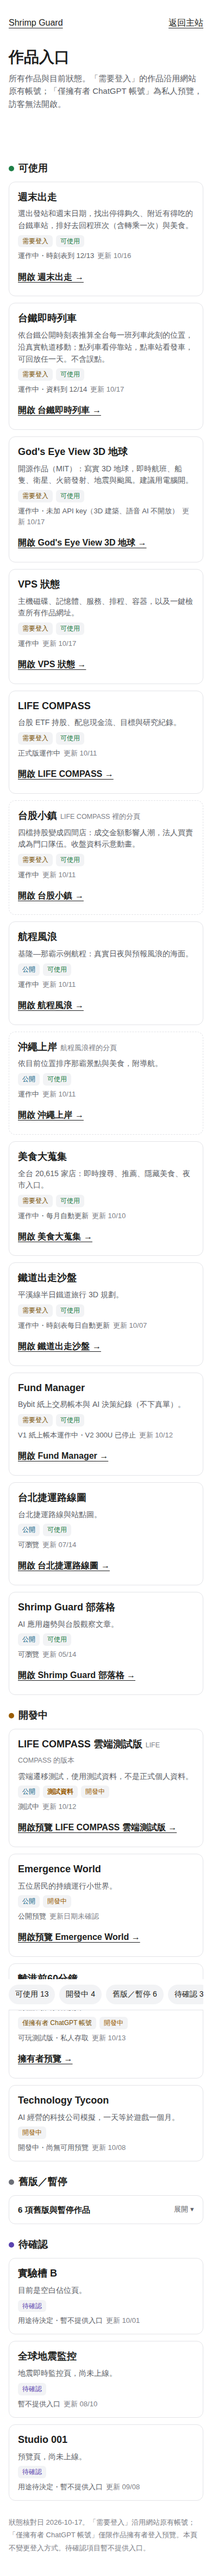
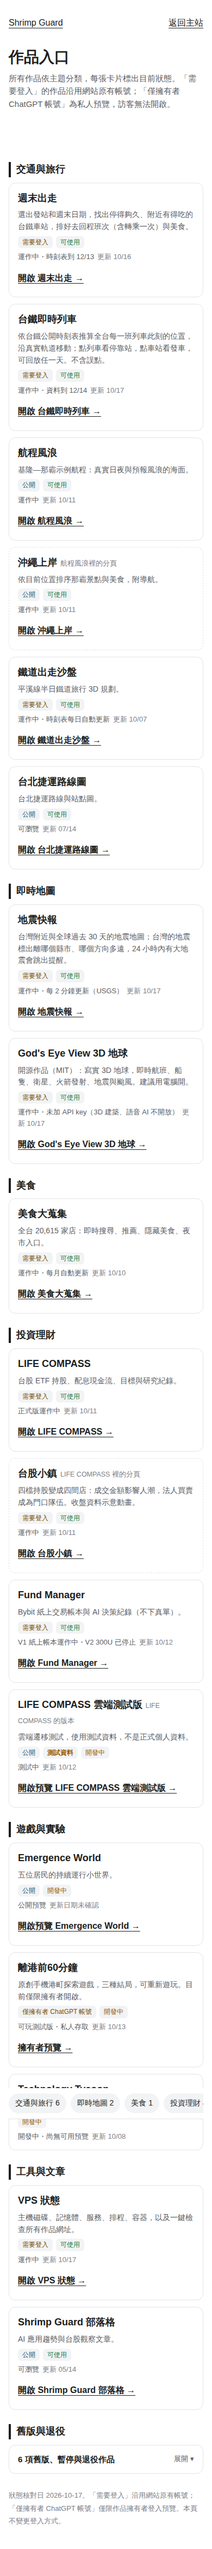
projects: group works by theme (交通與旅行/即時地圖/美食/投資理財/遊戲與實驗/工具與文章/舊版), status as a tag; add 地震快報; drop empty placeholders 實驗槽 B and Studio 001 (24 works)
Claude-Session: https://claude.ai/code/session_01GVcRfQhdVaSGc69DiKrmzk

diff --git a/overlays/projects/index.html b/overlays/projects/index.html
@@ -1,0 +1,28 @@
+<!doctype html><html lang="zh-Hant"><head><meta charset="utf-8"><meta name="viewport" content="width=device-width,initial-scale=1"><title>作品入口 · Shrimp Guard</title><meta name="description" content="Shrimp Guard 所有作品與目前狀態。"><style>
+:root{color-scheme:light dark;--bg:#fff;--card:#fff;--ink:#1d1e20;--ink2:#5b5e66;--ink3:#7d8087;--line:#e3e4e8;--chip:#f2f3f5;--ok:#1d7f46;--dev:#9a5c00;--old:#6c6f77;--ask:#5b43b0;--lock:#7a5000;--pub:#0a5f85}
+@media (prefers-color-scheme:dark){:root{--bg:#1d1e20;--card:#26272b;--ink:#dadadb;--ink2:#b0b2b7;--ink3:#8c8f96;--line:#38393e;--chip:#313237;--ok:#57c785;--dev:#e3a23a;--old:#a3a6ad;--ask:#ad98f2;--lock:#e5b864;--pub:#64bde4}}
+*{box-sizing:border-box}body{margin:0;background:var(--bg);color:var(--ink);font-family:-apple-system,BlinkMacSystemFont,"Segoe UI","PingFang TC","Noto Sans TC",sans-serif;line-height:1.55}
+.shell{max-width:1000px;margin:auto;padding:20px 16px 40px}
+nav.top{display:flex;justify-content:space-between;align-items:center}nav.top a{color:var(--ink);padding:10px 0;text-decoration:underline;text-underline-offset:4px}
+h1{font-size:clamp(28px,5vw,40px);margin:18px 0 6px}.intro{color:var(--ink2);margin:0;font-size:15px}
+.jump{position:sticky;top:0;z-index:2;background:var(--bg);display:flex;gap:8px;overflow-x:auto;padding:10px 0;margin-top:12px;border-bottom:1px solid var(--line)}
+.jump a{flex:none;font-size:14px;padding:7px 12px;border-radius:999px;background:var(--chip);color:var(--ink);text-decoration:none;white-space:nowrap}
+section{scroll-margin-top:60px}h2{font-size:18px;margin:26px 0 10px;padding-left:10px;border-left:4px solid var(--ink)}
+.grid{display:grid;grid-template-columns:repeat(2,minmax(0,1fr));gap:12px}
+.card{background:var(--card);border:1px solid var(--line);border-radius:12px;padding:14px 16px;display:flex;flex-direction:column;gap:6px;min-width:0}
+.card.sub{border-style:dashed}
+.name{font-size:18px;font-weight:700;margin:0}.of{font-size:12.5px;color:var(--ink3);font-weight:400;margin-left:6px}
+.desc{font-size:14px;color:var(--ink2);margin:0}
+.tags{display:flex;gap:6px;flex-wrap:wrap;margin:0;padding:0;list-style:none}
+.tags li{font-size:12px;padding:2px 8px;border-radius:6px;background:var(--chip);color:var(--ink2)}
+.tags .pub{color:var(--pub)}.tags .lock{color:var(--lock)}.tags .ok{color:var(--ok)}.tags .dev{color:var(--dev)}.tags .old{color:var(--old)}.tags .ask{color:var(--ask)}.tags .test{color:var(--dev);font-weight:700}
+.st{font-size:13px;color:var(--ink2);margin:0}.st time{color:var(--ink3);margin-left:6px}
+.open{margin:2px 0 0}.open a{display:inline-block;padding:8px 0;color:var(--ink);font-weight:700;text-decoration:underline;text-underline-offset:4px}
+details{border:1px solid var(--line);border-radius:12px;background:var(--card)}
+summary{cursor:pointer;padding:14px 16px;font-size:15px;font-weight:700;display:flex;justify-content:space-between;align-items:center}
+summary::-webkit-details-marker{display:none}summary::after{content:"展開 ▾";font-size:13px;font-weight:500;color:var(--ink2)}details[open] summary::after{content:"收合 ▴"}
+details .grid{padding:0 12px 12px}
+footer{margin-top:28px;font-size:13px;color:var(--ink3);line-height:1.8}
+a:focus-visible,summary:focus-visible{outline:3px solid #6797c0;outline-offset:4px}
+@media(max-width:600px){.grid{grid-template-columns:1fr}}
+</style></head><body><div class="shell"><nav class="top" aria-label="網站導覽"><a href="/">Shrimp Guard</a><a href="/">返回主站</a></nav><main><h1>作品入口</h1><p class="intro">所有作品依主題分類，每張卡片標出目前狀態。「需要登入」的作品沿用網站原有帳號；「僅擁有者 ChatGPT 帳號」為私人預覽，訪客無法開啟。</p><nav class="jump" aria-label="分類"><a href="#travel">交通與旅行 6</a><a href="#live">即時地圖 2</a><a href="#food">美食 1</a><a href="#money">投資理財 4</a><a href="#lab">遊戲與實驗 3</a><a href="#tools">工具與文章 2</a><a href="#old">舊版與退役 6</a></nav><section id="travel" aria-label="交通與旅行"><h2>交通與旅行</h2><div class="grid"><article class="card"><h3 class="name">週末出走</h3><p class="desc">選出發站和週末日期，找出停得夠久、附近有得吃的台鐵車站，排好去回程班次（含轉乘一次）與美食。</p><ul class="tags"><li class="lock">需要登入</li><li class="ok">可使用</li></ul><p class="st">運作中・時刻表到 12/13<time>更新 10/16</time></p><p class="open"><a href="https://dashboard.shrimp-guard.us.ci/weekend/">開啟 週末出走 →</a></p></article><article class="card"><h3 class="name">台鐵即時列車</h3><p class="desc">依台鐵公開時刻表推算全台每一班列車此刻的位置，沿真實軌道移動；點列車看停靠站，點車站看發車，可回放任一天。不含誤點。</p><ul class="tags"><li class="lock">需要登入</li><li class="ok">可使用</li></ul><p class="st">運作中・資料到 12/14<time>更新 10/17</time></p><p class="open"><a href="https://dashboard.shrimp-guard.us.ci/apps/rail-live/">開啟 台鐵即時列車 →</a></p></article><article class="card"><h3 class="name">航程風浪</h3><p class="desc">基隆—那霸示例航程：真實日夜與預報風浪的海面。</p><ul class="tags"><li class="pub">公開</li><li class="ok">可使用</li></ul><p class="st">運作中<time>更新 10/11</time></p><p class="open"><a href="/room/">開啟 航程風浪 →</a></p></article><article class="card sub"><h3 class="name">沖繩上岸<span class="of">航程風浪裡的分頁</span></h3><p class="desc">依目前位置排序那霸景點與美食，附導航。</p><ul class="tags"><li class="pub">公開</li><li class="ok">可使用</li></ul><p class="st">運作中<time>更新 10/11</time></p><p class="open"><a href="/room/#landing">開啟 沖繩上岸 →</a></p></article><article class="card"><h3 class="name">鐵道出走沙盤</h3><p class="desc">平溪線半日鐵道旅行 3D 規劃。</p><ul class="tags"><li class="lock">需要登入</li><li class="ok">可使用</li></ul><p class="st">運作中・時刻表每日自動更新<time>更新 10/07</time></p><p class="open"><a href="https://dashboard.shrimp-guard.us.ci/rail-trip/">開啟 鐵道出走沙盤 →</a></p></article><article class="card"><h3 class="name">台北捷運路線圖</h3><p class="desc">台北捷運路線與站點圖。</p><ul class="tags"><li class="pub">公開</li><li class="ok">可使用</li></ul><p class="st">可瀏覽<time>更新 07/14</time></p><p class="open"><a href="/taipei-mrt/">開啟 台北捷運路線圖 →</a></p></article></div></section><section id="live" aria-label="即時地圖"><h2>即時地圖</h2><div class="grid"><article class="card"><h3 class="name">地震快報</h3><p class="desc">台灣附近與全球過去 30 天的地震地圖；台灣的地震標出離哪個縣市、哪個方向多遠，24 小時內有大地震會跳出提醒。</p><ul class="tags"><li class="lock">需要登入</li><li class="ok">可使用</li></ul><p class="st">運作中・每 2 分鐘更新（USGS）<time>更新 10/17</time></p><p class="open"><a href="https://dashboard.shrimp-guard.us.ci/apps/quake/">開啟 地震快報 →</a></p></article><article class="card"><h3 class="name">God&#x27;s Eye View 3D 地球</h3><p class="desc">開源作品（MIT）：寫實 3D 地球，即時航班、船隻、衛星、火箭發射、地震與颱風。建議用電腦開。</p><ul class="tags"><li class="lock">需要登入</li><li class="ok">可使用</li></ul><p class="st">運作中・未加 API key（3D 建築、語音 AI 不開放）<time>更新 10/17</time></p><p class="open"><a href="https://dashboard.shrimp-guard.us.ci/globe/">開啟 God&#x27;s Eye View 3D 地球 →</a></p></article></div></section><section id="food" aria-label="美食"><h2>美食</h2><div class="grid"><article class="card"><h3 class="name">美食大蒐集</h3><p class="desc">全台 20,615 家店：即時搜尋、推薦、隱藏美食、夜市入口。</p><ul class="tags"><li class="lock">需要登入</li><li class="ok">可使用</li></ul><p class="st">運作中・每月自動更新<time>更新 10/10</time></p><p class="open"><a href="https://dashboard.shrimp-guard.us.ci/food-map/">開啟 美食大蒐集 →</a></p></article></div></section><section id="money" aria-label="投資理財"><h2>投資理財</h2><div class="grid"><article class="card"><h3 class="name">LIFE COMPASS</h3><p class="desc">台股 ETF 持股、配息現金流、目標與研究紀錄。</p><ul class="tags"><li class="lock">需要登入</li><li class="ok">可使用</li></ul><p class="st">正式版運作中<time>更新 10/11</time></p><p class="open"><a href="https://dashboard.shrimp-guard.us.ci/one-life/">開啟 LIFE COMPASS →</a></p></article><article class="card sub"><h3 class="name">台股小鎮<span class="of">LIFE COMPASS 裡的分頁</span></h3><p class="desc">四檔持股變成四間店：成交金額影響人潮，法人買賣成為門口隊伍。收盤資料示意動畫。</p><ul class="tags"><li class="lock">需要登入</li><li class="ok">可使用</li></ul><p class="st">運作中<time>更新 10/11</time></p><p class="open"><a href="https://dashboard.shrimp-guard.us.ci/one-life/#town">開啟 台股小鎮 →</a></p></article><article class="card"><h3 class="name">Fund Manager</h3><p class="desc">Bybit 紙上交易帳本與 AI 決策紀錄（不下真單）。</p><ul class="tags"><li class="lock">需要登入</li><li class="ok">可使用</li></ul><p class="st">V1 紙上帳本運作中・V2 300U 已停止<time>更新 10/12</time></p><p class="open"><a href="https://dashboard.shrimp-guard.us.ci/fund-manager/">開啟 Fund Manager →</a></p></article><article class="card"><h3 class="name">LIFE COMPASS 雲端測試版<span class="of">LIFE COMPASS 的版本</span></h3><p class="desc">雲端遷移測試，使用測試資料，不是正式個人資料。</p><ul class="tags"><li class="pub">公開</li><li class="test">測試資料</li><li class="dev">開發中</li></ul><p class="st">測試中<time>更新 10/12</time></p><p class="open"><a href="https://life-compass.httpsmulticlawmoltidworkersdevcmolt32c002a10b29b0e3ad3.workers.dev/">開啟預覽 LIFE COMPASS 雲端測試版 →</a></p></article></div></section><section id="lab" aria-label="遊戲與實驗"><h2>遊戲與實驗</h2><div class="grid"><article class="card"><h3 class="name">Emergence World</h3><p class="desc">五位居民的持續運行小世界。</p><ul class="tags"><li class="pub">公開</li><li class="dev">開發中</li></ul><p class="st">公開預覽<time>更新日期未確認</time></p><p class="open"><a href="https://emergence-world-preview.httpsmulticlawmoltidworkersdevcmolt32c002a10b29b0e3ad3.workers.dev/">開啟預覽 Emergence World →</a></p></article><article class="card"><h3 class="name">離港前60分鐘</h3><p class="desc">原創手機港町探索遊戲，三種結局，可重新遊玩。目前僅限擁有者開啟。</p><ul class="tags"><li class="lock">僅擁有者 ChatGPT 帳號</li><li class="dev">開發中</li></ul><p class="st">可玩測試版・私人存取<time>更新 10/13</time></p><p class="open"><a href="https://harbor-sixty-minute-game.windy-maple-0615.chatgpt.site">擁有者預覽 →</a></p></article><article class="card"><h3 class="name">Technology Tycoon</h3><p class="desc">AI 經營的科技公司模擬，一天等於遊戲一個月。</p><ul class="tags"><li class="dev">開發中</li></ul><p class="st">開發中・尚無可用預覽<time>更新 10/08</time></p></article></div></section><section id="tools" aria-label="工具與文章"><h2>工具與文章</h2><div class="grid"><article class="card"><h3 class="name">VPS 狀態</h3><p class="desc">主機磁碟、記憶體、服務、排程、容器，以及一鍵檢查所有作品網址。</p><ul class="tags"><li class="lock">需要登入</li><li class="ok">可使用</li></ul><p class="st">運作中<time>更新 10/17</time></p><p class="open"><a href="https://dashboard.shrimp-guard.us.ci/apps/vps/">開啟 VPS 狀態 →</a></p></article><article class="card"><h3 class="name">Shrimp Guard 部落格</h3><p class="desc">AI 應用趨勢與台股觀察文章。</p><ul class="tags"><li class="pub">公開</li><li class="ok">可使用</li></ul><p class="st">可瀏覽<time>更新 05/14</time></p><p class="open"><a href="/">開啟 Shrimp Guard 部落格 →</a></p></article></div></section><section id="old" aria-label="舊版與退役"><h2>舊版與退役</h2><details><summary>6 項舊版、暫停與退役作品</summary><div class="grid"><article class="card"><h3 class="name">小王國</h3><p class="desc">手機王國遊戲（建設村莊、發布懸賞、英雄自行出任務）。</p><ul class="tags"><li class="old">舊版／暫停</li></ul><p class="st">暫停・素材成果保留<time>更新 10/12</time></p></article><article class="card"><h3 class="name">世界與我</h3><p class="desc">原入口保留中。</p><ul class="tags"><li class="pub">公開</li><li class="old">舊版／暫停</li></ul><p class="st">保留中<time>更新 10/08</time></p><p class="open"><a href="/world-impact/">開啟 世界與我 →</a></p></article><article class="card"><h3 class="name">美食大蒐集（公開版）<span class="of">美食大蒐集的版本</span></h3><p class="desc">曾規劃的 GitHub Pages 公開版本。</p><ul class="tags"><li class="old">舊版／暫停</li></ul><p class="st">暫停・正式版在美食大蒐集<time>更新 10/10</time></p></article><article class="card"><h3 class="name">ONE LIFE ／ AI Resident</h3><p class="desc">生活角色實驗，網址已由 LIFE COMPASS 接手。</p><ul class="tags"><li class="old">舊版／暫停</li></ul><p class="st">已退役<time>更新 10/01</time></p></article><article class="card"><h3 class="name">AI COMMONS ／ Latticefolk</h3><p class="desc">多模型社群與 AI 生活世界實驗。</p><ul class="tags"><li class="old">舊版／暫停</li></ul><p class="st">已退役<time>更新 09/30</time></p></article><article class="card"><h3 class="name">Fund Manager V2 300U<span class="of">Fund Manager 的版本</span></h3><p class="desc">300 USDT 雙向持倉紙上帳本。</p><ul class="tags"><li class="old">舊版／暫停</li></ul><p class="st">已停止・紀錄可在 Fund Manager 查看<time>更新 10/12</time></p></article></div></details></section></main><footer>狀態核對日 2026-10-17。「需要登入」沿用網站原有帳號；「僅擁有者 ChatGPT 帳號」僅限作品擁有者登入預覽。本頁不變更登入方式。</footer></div></body></html>

diff --git a/scripts/build_projects_entry.py b/scripts/build_projects_entry.py
@@ -8,35 +8,34 @@ D = 'https://dashboard.shrimp-guard.us.ci'
 CHECKED = '2026-10-17'
 # group: ok 可使用 / dev 開發中 / old 舊版／暫停 (collapsed) / ask 待確認 (no open button)
 WORKS = [
-    dict(g='ok', name='週末出走', desc='選出發站和週末日期，找出停得夠久、附近有得吃的台鐵車站，排好去回程班次（含轉乘一次）與美食。', url=D + '/weekend/', login=True, st='運作中・時刻表到 12/13', date='10/16'),
-    dict(g='ok', name='台鐵即時列車', desc='依台鐵公開時刻表推算全台每一班列車此刻的位置，沿真實軌道移動；點列車看停靠站，點車站看發車，可回放任一天。不含誤點。', url=D + '/apps/rail-live/', login=True, st='運作中・資料到 12/14', date='10/17'),
-    dict(g='ok', name="God's Eye View 3D 地球", desc='開源作品（MIT）：寫實 3D 地球，即時航班、船隻、衛星、火箭發射、地震與颱風。建議用電腦開。', url=D + '/globe/', login=True, st='運作中・未加 API key（3D 建築、語音 AI 不開放）', date='10/17'),
-    dict(g='ok', name='VPS 狀態', desc='主機磁碟、記憶體、服務、排程、容器，以及一鍵檢查所有作品網址。', url=D + '/apps/vps/', login=True, st='運作中', date='10/17'),
-    dict(g='ok', name='LIFE COMPASS', desc='台股 ETF 持股、配息現金流、目標與研究紀錄。', url=D + '/one-life/', login=True, st='正式版運作中', date='10/11'),
-    dict(g='ok', name='台股小鎮', of='LIFE COMPASS 裡的分頁', desc='四檔持股變成四間店：成交金額影響人潮，法人買賣成為門口隊伍。收盤資料示意動畫。', url=D + '/one-life/#town', login=True, sub=True, st='運作中', date='10/11'),
-    dict(g='ok', name='航程風浪', desc='基隆—那霸示例航程：真實日夜與預報風浪的海面。', url='/room/', login=False, st='運作中', date='10/11'),
-    dict(g='ok', name='沖繩上岸', of='航程風浪裡的分頁', desc='依目前位置排序那霸景點與美食，附導航。', url='/room/#landing', login=False, sub=True, st='運作中', date='10/11'),
-    dict(g='ok', name='美食大蒐集', desc='全台 20,615 家店：即時搜尋、推薦、隱藏美食、夜市入口。', url=D + '/food-map/', login=True, st='運作中・每月自動更新', date='10/10'),
-    dict(g='ok', name='鐵道出走沙盤', desc='平溪線半日鐵道旅行 3D 規劃。', url=D + '/rail-trip/', login=True, st='運作中・時刻表每日自動更新', date='10/07'),
-    dict(g='ok', name='Fund Manager', desc='Bybit 紙上交易帳本與 AI 決策紀錄（不下真單）。', url=D + '/fund-manager/', login=True, st='V1 紙上帳本運作中・V2 300U 已停止', date='10/12'),
-    dict(g='ok', name='台北捷運路線圖', desc='台北捷運路線與站點圖。', url='/taipei-mrt/', login=False, st='可瀏覽', date='07/14'),
-    dict(g='ok', name='Shrimp Guard 部落格', desc='AI 應用趨勢與台股觀察文章。', url='/', login=False, st='可瀏覽', date='05/14'),
-    dict(g='dev', name='LIFE COMPASS 雲端測試版', of='LIFE COMPASS 的版本', desc='雲端遷移測試，使用測試資料，不是正式個人資料。', url='https://life-compass.httpsmulticlawmoltidworkersdevcmolt32c002a10b29b0e3ad3.workers.dev/', login=False, test=True, st='測試中', date='10/12'),
-    dict(g='dev', name='Emergence World', desc='五位居民的持續運行小世界。', url='https://emergence-world-preview.httpsmulticlawmoltidworkersdevcmolt32c002a10b29b0e3ad3.workers.dev/', login=False, st='公開預覽', date=None),
-    dict(g='dev', name='離港前60分鐘', desc='原創手機港町探索遊戲，三種結局，可重新遊玩。目前僅限擁有者開啟。', url='https://harbor-sixty-minute-game.windy-maple-0615.chatgpt.site', login=True, access='僅擁有者 ChatGPT 帳號', btn='擁有者預覽', st='可玩測試版・私人存取', date='10/13'),
-    dict(g='dev', name='Technology Tycoon', desc='AI 經營的科技公司模擬，一天等於遊戲一個月。', url=None, st='開發中・尚無可用預覽', date='10/08'),
-    dict(g='old', name='小王國', desc='手機王國遊戲（建設村莊、發布懸賞、英雄自行出任務）。', url=None, st='暫停・素材成果保留', date='10/12'),
-    dict(g='old', name='世界與我', desc='原入口保留中。', url='/world-impact/', login=False, st='保留中', date='10/08'),
-    dict(g='old', name='美食大蒐集（公開版）', of='美食大蒐集的版本', desc='曾規劃的 GitHub Pages 公開版本。', url=None, st='暫停・正式版在美食大蒐集', date='10/10'),
-    dict(g='old', name='ONE LIFE ／ AI Resident', desc='生活角色實驗，網址已由 LIFE COMPASS 接手。', url=None, st='已退役', date='10/01'),
-    dict(g='old', name='AI COMMONS ／ Latticefolk', desc='多模型社群與 AI 生活世界實驗。', url=None, st='已退役', date='09/30'),
-    dict(g='old', name='Fund Manager V2 300U', of='Fund Manager 的版本', desc='300 USDT 雙向持倉紙上帳本。', url=None, st='已停止・紀錄可在 Fund Manager 查看', date='10/12'),
-    dict(g='ask', name='實驗槽 B', desc='目前是空白佔位頁。', url=None, st='用途待決定・暫不提供入口', date='10/01'),
-    dict(g='ask', name='全球地震監控', desc='地震即時監控頁，尚未上線。', url=None, st='暫不提供入口', date='08/10'),
-    dict(g='ask', name='Studio 001', desc='預覽頁，尚未上線。', url=None, st='用途待決定・暫不提供入口', date='09/08'),
+    dict(c='live', g='ok', name='地震快報', desc='台灣附近與全球過去 30 天的地震地圖；台灣的地震標出離哪個縣市、哪個方向多遠，24 小時內有大地震會跳出提醒。', url=D + '/apps/quake/', login=True, st='運作中・每 2 分鐘更新（USGS）', date='10/17'),
+    dict(c='travel', g='ok', name='週末出走', desc='選出發站和週末日期，找出停得夠久、附近有得吃的台鐵車站，排好去回程班次（含轉乘一次）與美食。', url=D + '/weekend/', login=True, st='運作中・時刻表到 12/13', date='10/16'),
+    dict(c='travel', g='ok', name='台鐵即時列車', desc='依台鐵公開時刻表推算全台每一班列車此刻的位置，沿真實軌道移動；點列車看停靠站，點車站看發車，可回放任一天。不含誤點。', url=D + '/apps/rail-live/', login=True, st='運作中・資料到 12/14', date='10/17'),
+    dict(c='live', g='ok', name="God's Eye View 3D 地球", desc='開源作品（MIT）：寫實 3D 地球，即時航班、船隻、衛星、火箭發射、地震與颱風。建議用電腦開。', url=D + '/globe/', login=True, st='運作中・未加 API key（3D 建築、語音 AI 不開放）', date='10/17'),
+    dict(c='tools', g='ok', name='VPS 狀態', desc='主機磁碟、記憶體、服務、排程、容器，以及一鍵檢查所有作品網址。', url=D + '/apps/vps/', login=True, st='運作中', date='10/17'),
+    dict(c='money', g='ok', name='LIFE COMPASS', desc='台股 ETF 持股、配息現金流、目標與研究紀錄。', url=D + '/one-life/', login=True, st='正式版運作中', date='10/11'),
+    dict(c='money', g='ok', name='台股小鎮', of='LIFE COMPASS 裡的分頁', desc='四檔持股變成四間店：成交金額影響人潮，法人買賣成為門口隊伍。收盤資料示意動畫。', url=D + '/one-life/#town', login=True, sub=True, st='運作中', date='10/11'),
+    dict(c='travel', g='ok', name='航程風浪', desc='基隆—那霸示例航程：真實日夜與預報風浪的海面。', url='/room/', login=False, st='運作中', date='10/11'),
+    dict(c='travel', g='ok', name='沖繩上岸', of='航程風浪裡的分頁', desc='依目前位置排序那霸景點與美食，附導航。', url='/room/#landing', login=False, sub=True, st='運作中', date='10/11'),
+    dict(c='food', g='ok', name='美食大蒐集', desc='全台 20,615 家店：即時搜尋、推薦、隱藏美食、夜市入口。', url=D + '/food-map/', login=True, st='運作中・每月自動更新', date='10/10'),
+    dict(c='travel', g='ok', name='鐵道出走沙盤', desc='平溪線半日鐵道旅行 3D 規劃。', url=D + '/rail-trip/', login=True, st='運作中・時刻表每日自動更新', date='10/07'),
+    dict(c='money', g='ok', name='Fund Manager', desc='Bybit 紙上交易帳本與 AI 決策紀錄（不下真單）。', url=D + '/fund-manager/', login=True, st='V1 紙上帳本運作中・V2 300U 已停止', date='10/12'),
+    dict(c='travel', g='ok', name='台北捷運路線圖', desc='台北捷運路線與站點圖。', url='/taipei-mrt/', login=False, st='可瀏覽', date='07/14'),
+    dict(c='tools', g='ok', name='Shrimp Guard 部落格', desc='AI 應用趨勢與台股觀察文章。', url='/', login=False, st='可瀏覽', date='05/14'),
+    dict(c='money', g='dev', name='LIFE COMPASS 雲端測試版', of='LIFE COMPASS 的版本', desc='雲端遷移測試，使用測試資料，不是正式個人資料。', url='https://life-compass.httpsmulticlawmoltidworkersdevcmolt32c002a10b29b0e3ad3.workers.dev/', login=False, test=True, st='測試中', date='10/12'),
+    dict(c='lab', g='dev', name='Emergence World', desc='五位居民的持續運行小世界。', url='https://emergence-world-preview.httpsmulticlawmoltidworkersdevcmolt32c002a10b29b0e3ad3.workers.dev/', login=False, st='公開預覽', date=None),
+    dict(c='lab', g='dev', name='離港前60分鐘', desc='原創手機港町探索遊戲，三種結局，可重新遊玩。目前僅限擁有者開啟。', url='https://harbor-sixty-minute-game.windy-maple-0615.chatgpt.site', login=True, access='僅擁有者 ChatGPT 帳號', btn='擁有者預覽', st='可玩測試版・私人存取', date='10/13'),
+    dict(c='lab', g='dev', name='Technology Tycoon', desc='AI 經營的科技公司模擬，一天等於遊戲一個月。', url=None, st='開發中・尚無可用預覽', date='10/08'),
+    dict(c='old', g='old', name='小王國', desc='手機王國遊戲（建設村莊、發布懸賞、英雄自行出任務）。', url=None, st='暫停・素材成果保留', date='10/12'),
+    dict(c='old', g='old', name='世界與我', desc='原入口保留中。', url='/world-impact/', login=False, st='保留中', date='10/08'),
+    dict(c='old', g='old', name='美食大蒐集（公開版）', of='美食大蒐集的版本', desc='曾規劃的 GitHub Pages 公開版本。', url=None, st='暫停・正式版在美食大蒐集', date='10/10'),
+    dict(c='old', g='old', name='ONE LIFE ／ AI Resident', desc='生活角色實驗，網址已由 LIFE COMPASS 接手。', url=None, st='已退役', date='10/01'),
+    dict(c='old', g='old', name='AI COMMONS ／ Latticefolk', desc='多模型社群與 AI 生活世界實驗。', url=None, st='已退役', date='09/30'),
+    dict(c='old', g='old', name='Fund Manager V2 300U', of='Fund Manager 的版本', desc='300 USDT 雙向持倉紙上帳本。', url=None, st='已停止・紀錄可在 Fund Manager 查看', date='10/12'),
 ]
-GROUPS = [('ok', '可使用'), ('dev', '開發中'), ('old', '舊版／暫停'), ('ask', '待確認')]
-assert not [w for w in WORKS if w['g'] == 'ask' and w['url']], '待確認項不可有開啟按鈕'
+GROUPS = [('ok', '可使用'), ('dev', '開發中'), ('old', '舊版／暫停')]  # status, shown as a tag on each card
+CATS = [('travel', '交通與旅行'), ('live', '即時地圖'), ('food', '美食'), ('money', '投資理財'), ('lab', '遊戲與實驗'), ('tools', '工具與文章'), ('old', '舊版與退役')]
+assert all(w['c'] in dict(CATS) for w in WORKS) and all((w['c'] == 'old') == (w['g'] == 'old') for w in WORKS)
 
 CSS = """
 :root{color-scheme:light dark;--bg:#fff;--card:#fff;--ink:#1d1e20;--ink2:#5b5e66;--ink3:#7d8087;--line:#e3e4e8;--chip:#f2f3f5;--ok:#1d7f46;--dev:#9a5c00;--old:#6c6f77;--ask:#5b43b0;--lock:#7a5000;--pub:#0a5f85}
@@ -47,7 +46,7 @@ nav.top{display:flex;justify-content:space-between;align-items:center}nav.top a{
 h1{font-size:clamp(28px,5vw,40px);margin:18px 0 6px}.intro{color:var(--ink2);margin:0;font-size:15px}
 .jump{position:sticky;top:0;z-index:2;background:var(--bg);display:flex;gap:8px;overflow-x:auto;padding:10px 0;margin-top:12px;border-bottom:1px solid var(--line)}
 .jump a{flex:none;font-size:14px;padding:7px 12px;border-radius:999px;background:var(--chip);color:var(--ink);text-decoration:none;white-space:nowrap}
-section{scroll-margin-top:60px}h2{display:flex;align-items:center;gap:8px;font-size:18px;margin:24px 0 10px}h2 i{width:10px;height:10px;border-radius:50%;display:inline-block}
+section{scroll-margin-top:60px}h2{font-size:18px;margin:26px 0 10px;padding-left:10px;border-left:4px solid var(--ink)}
 .grid{display:grid;grid-template-columns:repeat(2,minmax(0,1fr));gap:12px}
 .card{background:var(--card);border:1px solid var(--line);border-radius:12px;padding:14px 16px;display:flex;flex-direction:column;gap:6px;min-width:0}
 .card.sub{border-style:dashed}
@@ -66,7 +65,6 @@ footer{margin-top:28px;font-size:13px;color:var(--ink3);line-height:1.8}
 a:focus-visible,summary:focus-visible{outline:3px solid #6797c0;outline-offset:4px}
 @media(max-width:600px){.grid{grid-template-columns:1fr}}
 """
-COLOR = dict(ok='var(--ok)', dev='var(--dev)', old='var(--old)', ask='var(--ask)')
 LABEL = dict(GROUPS)
 
 
@@ -89,24 +87,24 @@ def card(w):
 
 def build():
     jump, body = [], []
-    for g, label in GROUPS:
-        items = [w for w in WORKS if w['g'] == g]
-        jump.append(f'<a href="#{g}">{label} {len(items)}</a>')
+    for c, label in CATS:
+        items = sorted((w for w in WORKS if w['c'] == c), key=lambda w: w['g'] != 'ok')  # usable first, sub-pages stay after their parent
+        jump.append(f'<a href="#{c}">{label} {len(items)}</a>')
         grid = f'<div class="grid">{"".join(card(w) for w in items)}</div>'
-        head = f'<h2><i style="background:{COLOR[g]}"></i>{label}</h2>'
-        if g == 'old':
-            grid = f'<details><summary>{len(items)} 項舊版與暫停作品</summary>{grid}</details>'
-        body.append(f'<section id="{g}" aria-label="{label}">{head}{grid}</section>')
+        head = f'<h2>{label}</h2>'
+        if c == 'old':
+            grid = f'<details><summary>{len(items)} 項舊版、暫停與退役作品</summary>{grid}</details>'
+        body.append(f'<section id="{c}" aria-label="{label}">{head}{grid}</section>')
     return ('<!doctype html><html lang="zh-Hant"><head><meta charset="utf-8"><meta name="viewport" content="width=device-width,initial-scale=1">'
             '<title>作品入口 · Shrimp Guard</title><meta name="description" content="Shrimp Guard 所有作品與目前狀態。">'
             f'<style>{CSS}</style></head><body><div class="shell"><nav class="top" aria-label="網站導覽"><a href="/">Shrimp Guard</a><a href="/">返回主站</a></nav>'
-            '<main><h1>作品入口</h1><p class="intro">所有作品與目前狀態。「需要登入」的作品沿用網站原有帳號；「僅擁有者 ChatGPT 帳號」為私人預覽，訪客無法開啟。</p>'
+            '<main><h1>作品入口</h1><p class="intro">所有作品依主題分類，每張卡片標出目前狀態。「需要登入」的作品沿用網站原有帳號；「僅擁有者 ChatGPT 帳號」為私人預覽，訪客無法開啟。</p>'
             f'<nav class="jump" aria-label="分類">{"".join(jump)}</nav>{"".join(body)}</main>'
-            f'<footer>狀態核對日 {CHECKED}。「需要登入」沿用網站原有帳號；「僅擁有者 ChatGPT 帳號」僅限作品擁有者登入預覽。本頁不變更登入方式。待確認項目暫不提供入口。</footer></div></body></html>\n')
+            f'<footer>狀態核對日 {CHECKED}。「需要登入」沿用網站原有帳號；「僅擁有者 ChatGPT 帳號」僅限作品擁有者登入預覽。本頁不變更登入方式。</footer></div></body></html>\n')
 
 
 if __name__ == '__main__':
     out = Path(__file__).resolve().parents[1] / 'overlays' / 'projects' / 'index.html'
     out.parent.mkdir(parents=True, exist_ok=True)
     out.write_text(build(), encoding='utf-8')
-    print(out, sum(1 for w in WORKS if w.get('url')), 'links', {g: sum(1 for w in WORKS if w['g'] == g) for g, _ in GROUPS})
+    print(out, sum(1 for w in WORKS if w.get('url')), 'links', {c: sum(1 for w in WORKS if w['c'] == c) for c, _ in CATS})

diff --git a/scripts/test_publication.py b/scripts/test_publication.py
@@ -27,14 +27,15 @@ class EntryContent(unittest.TestCase):
   import importlib.util
   spec=importlib.util.spec_from_file_location('entry',root/'scripts/build_projects_entry.py'); entry_src=importlib.util.module_from_spec(spec); spec.loader.exec_module(entry_src)
   self.assertEqual(html,entry_src.build())   # overlay is exactly the generated page
-  expected=['/','/']+['#'+g for g,_ in entry_src.GROUPS]+[w['url'] for w in entry_src.WORKS if w.get('url')]
+  ordered=[w for c,_ in entry_src.CATS for w in sorted((w for w in entry_src.WORKS if w['c']==c),key=lambda w:w['g']!='ok')]
+  expected=['/','/']+['#'+c for c,_ in entry_src.CATS]+[w['url'] for w in ordered if w.get('url')]
   self.assertEqual(parser.links,expected)
   for href in parser.links:
    if href.startswith('/'):
     self.assertTrue((root/'publication'/href.split('#')[0].lstrip('/')/'index.html').is_file())
   for w in entry_src.WORKS:
    if w['g']=='ask': self.assertIsNone(w.get('url'))
-  for status in ['測試資料','暫不提供入口','舊版']: self.assertIn(status,html)
+  for status in ['測試資料','尚無可用預覽','舊版']: self.assertIn(status,html)
   self.assertNotRegex(html,r'\d+/\d+ 通過')   # test results stay in the report, not on public cards
   delta='\n<li><a href="/projects/">作品入口</a></li>'.encode()
   if (root/'overlays/index.html').exists():
